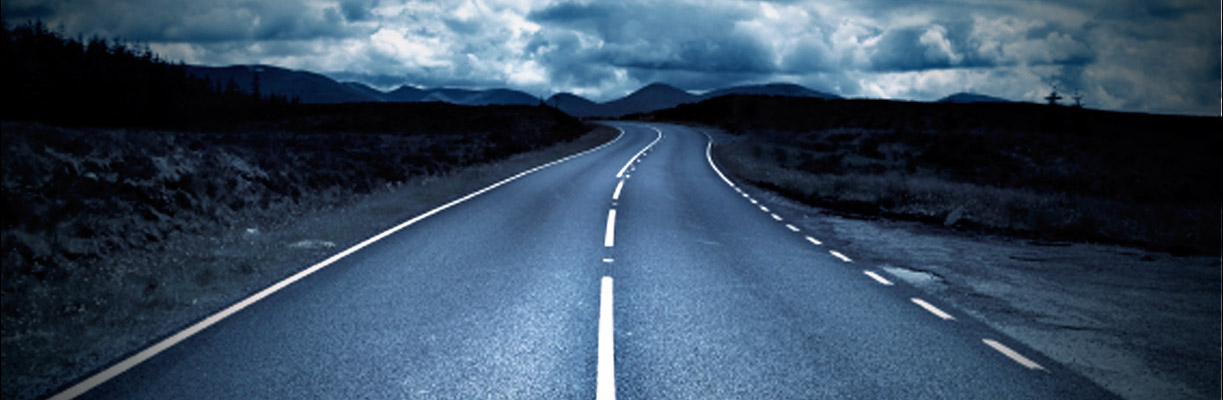
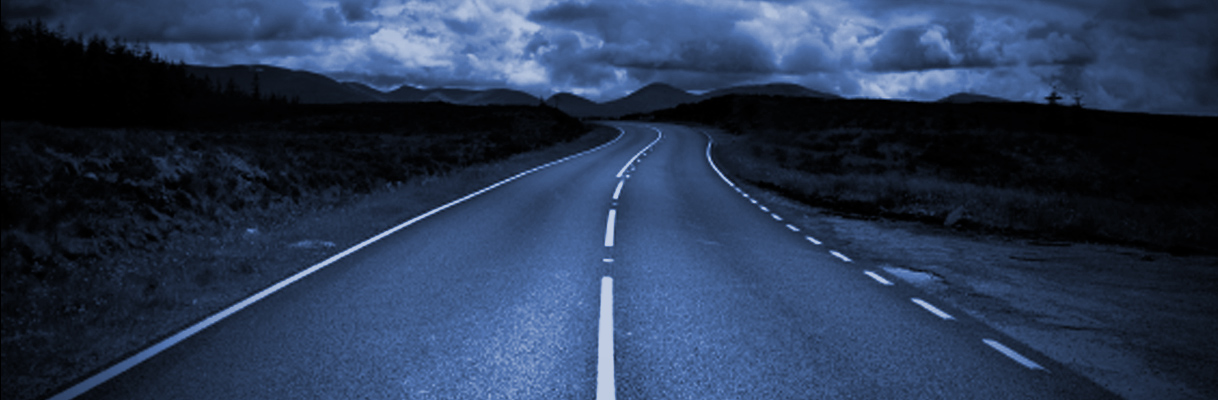
move front bg image

diff --git a/sites/all/themes/mindbridge/stylesheets/screen.css b/sites/all/themes/mindbridge/stylesheets/screen.css
@@ -1,1 +1,1 @@
-*{margin:0;padding:0}a img{border:0}input,select,textarea,button{font-family:inherit}body{font-family:"open-sans",sans-serif;-webkit-font-smoothing:antialiased;-moz-osx-font-smoothing:grayscale;color:#7e7e7e}body p{padding-bottom:10px;line-height:1.7em}.layout,.not-front #block-system-main>.content,#footer-second,#block-menu-menu-footer-menu .content,#block-block-1 .content,#block-views-news-block-1 .view-content,.views-news .view-content,#block-views-news-block-2 .view-content,#block-views-news-block-2 h2,#block-views-services-page-block .view-content{max-width:940px;margin:0 auto}.partition,#block-views-news-block-2 .views-row,#block-views-services-page-block .view-grouping{border-bottom:1px solid #ccc;padding-bottom:40px;margin-bottom:50px}.clear{clear:both}div.messages{position:relative !important;top:auto !important}h1,h2{text-transform:lowercase}h1{font-size:2.8em}h2{font-size:2.3em}h1,h2,h3,h4,.title{font-family:'GFS Didot', serif;color:black;font-weight:normal}.title{text-transform:inherit}h3{margin-top:30px;font-size:1.3em}a{text-decoration:none;color:#274067}a:hover{text-decoration:none}.hide-button,#block-block-2,.slick-arrow,.slick-dots li button,#block-search-form .form-submit,#block-block-2 .form-submit{font-size:0px;color:transparent;border:0px}.menu li{float:left;margin:0px;padding-top:0px}.menu a{padding:0.9em 0.5em;color:black}.menu li.leaf{list-style:none}#navigation{box-shadow:1px 1px 10px rgba(0,0,0,0.3);position:relative;z-index:2;position:fixed;width:100%;background:rgba(236,236,235,0.9)}#navigation .region-navigation{float:right;text-align:right;position:relative;margin-top:8px}#navigation #block-system-main-menu{float:left}#navigation>div{padding:15px 20px 10px}.backbg{background-size:cover;height:720px;padding:50px 0px;box-shadow:1000px 1000px 0px rgba(0,0,0,0.3) inset;background-position:center}.logoIcon,#node-3 h2:after,.not-front #page-title:after,#block-webform-client-block-10 h2:after{content:url(../images/logo-icon.png);display:block;padding-top:30px}.heading,#node-3 h2,.not-front #page-title,#block-block-1 h2,#block-webform-client-block-10 h2{max-width:400px;margin:0 auto;margin-bottom:30px}.grey-region,#block-block-1,#block-views-news-block-2,#block-views-services-page-block{background-color:#f2f2f2;padding:70px 10px}#node-3,.not-front #block-system-main>.content{text-align:center;padding:60px 10px;padding-top:0px;max-width:700px;margin:0 auto;position:relative}.not-front #block-system-main{margin-top:0px}.not-front #block-system-main:before{height:500px;top:-245px}.not-front #block-system-main>.content{padding-top:0px;padding-bottom:60px}#node-3>h2{display:none}.arc,#block-menu-menu-footer-menu:before,#content:before{background-size:cover;background-position:center;display:block;height:563px;width:100%;position:absolute;top:-90px}#block-system-main{position:relative}.front #block-system-main .node-readmore{display:none}#footer{background:#274067;box-shadow:10px 10px 50px #000;position:relative}#footer .menu{text-align:center;position:relative;top:-130px}#footer .menu:before{content:url(../images/logo-icon.png);display:block;padding-bottom:40px}#footer .menu li{float:none;display:inline-block;margin-left:-15px}#footer .menu li:before{content:"";display:inline-block;width:3px;height:3px;border-radius:20px;background:#274067;vertical-align:middle;margin:0px 10px}#footer .menu li:first-child:before{display:none}#footer-second{position:relative;clear:left;font-size:12px;padding:0px 10px}#footer-second #copyright{float:left}#footer-second #site-by-cci{float:right}#footer-second #site-by-cci a{color:#7e7e7e}#block-menu-menu-footer-menu{position:relative}#block-menu-menu-footer-menu:before{content:"";background-image:url(../images/arc-footer-bg.png);background-position:top;height:330px;top:-214px}#block-menu-menu-footer-menu .content{margin-bottom:-50px;position:relative;border-top:1px solid #cccccc}.page-node-9 #header{background:url(../images/contact-bg.jpg) no-repeat;background-size:cover}#header{margin-bottom:-120px}.front .backbg{padding:50px 0px}.relative-pos,.not-front #page-title,.tabs{position:relative;z-index:1}.not-front #header{height:550px;background:url(../images/contact-bg.jpg) no-repeat;background-size:cover}.not-front #page-title{text-align:center;text-transform:lowercase}div.messages{position:absolute;z-index:1;top:20px;width:100%}#content{position:relative}#content>div>div{position:relative}#content:before{content:"";background-image:url(../images/arc-bg.png)}#block-block-1{text-align:center}#mobile-menu-icon{display:none;position:absolute;height:20px;width:115px;right:20px;top:30px}#mobile-menu-icon a{color:black;display:block;padding-left:70px;line-height:1em}#terms-of-use,#privacy-policy{display:none}#block-block-2{height:30px;width:30px;padding-top:2px}#block-block-2 .content a{height:30px;width:30px;display:block;background:url(../images/search-icon.png) no-repeat}#block-block-2.hide{display:none}.view-banner h1{font-size:2.2em;max-width:500px;margin:0 auto;margin-top:30px;color:white;text-transform:inherit}.view-banner .views-row{position:relative}.view-banner .views-field-body{position:absolute;top:45%;left:50%;text-align:center;transform:translateX(-50%) translateY(-50%);-webkit-transform:translateX(-50%) translateY(-50%);-ms-transform:translateX(-50%) translateY(-50%);-moz-transform:translateX(-50%) translateY(-50%)}.view-banner .views-field-body img{margin:0 auto}.slick-arrow{width:20px;height:30px;cursor:pointer;position:absolute;top:40%;z-index:1}.slick-prev{left:40px;background:url(../images/left-arrow.png) no-repeat}.slick-next{right:40px;background:url(../images/right-arrow.png) no-repeat}.slick-dots{display:block;position:absolute;bottom:230px;width:100%;text-align:center}.slick-dots li{display:inline-block;padding-right:10px}.slick-dots li button{background:white;width:15px;height:15px;border-radius:20px;cursor:pointer}.slick-dots .slick-active button{background:#274067}.view-services{background:url(../images/service-bg.jpg) no-repeat;background-size:cover;text-align:center;position:relative;background-position:center}.view-services a{color:white}.view-services a span{display:block}.view-services .subtitle{width:211px;font-size:0.9em}.view-services .title{text-shadow:1px 1px 1px rgba(0,0,0,0.5);font-size:2em;color:white}.view-services .view-content{padding:90px 0px}.not-front .view-services .view-content{padding:90px 0px 300px 0px}.view-services .views-row{display:inline-block;vertical-align:middle;max-width:300px;padding:20px}.view-services .serv-icon{display:inline-block;height:100px}.view-services .serv-icon img{padding-bottom:20px}#block-views-news-block-1,.views-news{text-align:center;padding:65px 0px 280px;background:#274067;background-size:cover;background-position:center}#block-views-news-block-1 h2,.views-news h2{color:white;padding-bottom:65px}#block-views-news-block-1 .view-content,.views-news .view-content{max-width:990px}#block-views-news-block-1 .view-content .title a,.views-news .view-content .title a{color:black;font-size:1.3em}#block-views-news-block-1 .view-content a,.views-news .view-content a{color:#7e7e7e}#block-views-news-block-1 .view-content a:hover,.views-news .view-content a:hover{text-decoration:underline}#block-views-news-block-1 .date-posted,.views-news .date-posted{padding:20px 0px 20px 12px}#block-views-news-block-1 .date-posted:after,.views-news .date-posted:after{content:url(../images/ellipse.png);position:absolute;top:-8px;left:-34px}#block-views-news-block-1 .date-posted span,.views-news .date-posted span{display:block;color:white;position:relative;z-index:1;line-height:1.1em}#block-views-news-block-1 .date-posted .date,.views-news .date-posted .date{font-size:1.5em;font-weight:bold}#block-views-news-block-1 .right-block,.views-news .right-block{padding:20px 40px 10px 45px;min-width:320px;text-align:left}#block-views-news-block-1 .views-field,.views-news .views-field{float:left;position:relative;z-index:1}#block-views-news-block-1 .views-field p,.views-news .views-field p{padding-bottom:0px}#block-views-news-block-1 .views-field-created,.views-news .views-field-created{padding:30px 0px;background-color:#274067;color:white}#block-views-news-block-1 .views-row,.views-news .views-row{border:2px solid white;background-color:white;max-width:450px;overflow:hidden;margin-right:30px;margin-bottom:15px;display:inline-block}#block-views-news-block-2 .views-more-link{display:block}#block-views-news-block-2 .views-field{padding:10px 0px}#block-views-news-block-2 .views-field-title{font-size:1.3em}#block-views-news-block-2 h2{padding-bottom:30px;text-transform:inherit}#block-views-news-block-2 .views-row:last-child{margin-bottom:0px;padding-bottom:0px;border-bottom:0px}#block-views-services-page-block .view-grouping:last-child{margin-bottom:0px;border-bottom:0px}#block-views-services-page-block .views-row{padding:0px 10px 20px 0px;display:inline-block;width:48%;vertical-align:top}#block-views-services-page-block .view-grouping-header{font-size:2.3em;padding-bottom:25px;color:black;font-family:'GFS Didot', serif}#block-views-services-page-block img.serv-icon{vertical-align:middle}#block-views-services-page-block .view-grouping-content h3{font-family:"open-sans",sans-serif;font-size:0.9em;color:#7e7e7e;margin-top:0px;margin-bottom:25px}#block-views-services-page-block .views-field-title{font-size:1.1em;color:black;font-family:'GFS Didot', serif}#block-views-services-page-block .views-field-title img{float:left}#block-views-services-page-block .views-field-title .field-content{float:right;width:85%}#block-webform-client-block-10{background-color:#f2f2f2;text-align:center;padding:70px 10px}.webform-client-form{max-width:850px;margin:0 auto}.webform-client-form input,.webform-client-form textarea{font-size:18px;padding:15px 10px;border:1px solid #ccc;border-radius:5px}.webform-client-form .form-actions{text-align:center;position:relative;margin:0 auto;margin-top:15px}.webform-client-form .form-item{position:relative;display:inline-block}.webform-client-form .webform-submit{color:white;background:#274067;text-transform:lowercase;width:250px;margin:0 auto;margin-right:20px;cursor:pointer;-webkit-appearance:none}.webform-client-form .webform-component-textarea{clear:left;width:98%}.webform-client-form .webform-component-textarea+p{display:none}.webform-client-form .webform-component-textarea textarea{width:98%}.webform-client-form ::-webkit-input-placeholder{color:#9b9b9b;font-size:16px}.webform-client-form ::-moz-placeholder{color:#9b9b9b;font-size:16px}.webform-client-form :-ms-input-placeholder{color:#9b9b9b;font-size:16px}.webform-client-form input:-moz-placeholder{color:#9b9b9b;font-size:16px}.webform-client-form input{width:370px;margin-right:20px}#block-search-form,#block-block-2{right:0px;top:0px;float:right}#block-search-form h2,#block-block-2 h2{display:none}#block-search-form .form-text,#block-block-2 .form-text{width:250px;padding:10px;margin-top:24px}#block-search-form .form-submit,#block-block-2 .form-submit{width:30px;height:30px;cursor:pointer;-webkit-appearance:none;background:url(../images/search-icon.png) no-repeat}#block-search-form .contextual-links-wrapper,#block-block-2 .contextual-links-wrapper{display:none !important}#block-search-form .form-type-textfield,#block-block-2 .form-type-textfield{display:none;position:absolute;right:0;top:8px}.expand-textbox #block-search-form .form-type-textfield input,.expand-textbox #block-block-2 .form-type-textfield input{height:30px;border:1px solid #7e7e7e;transition:height 0.5s}#block-search-form{display:none}#block-search-form.active{display:block}@media screen and (max-width: 1020px){.view-services .views-row{margin-right:-10px;padding:0px;vertical-align:top}.view-services .serv-icon{height:65px}.view-services a{display:block}.view-services .subtitle{width:195px}}@media screen and (min-width: 768px){#navigation .region-navigation{display:block !important}}@media screen and (max-width: 767px){h2{font-size:1.8em}#block-block-2{display:none}#block-search-form{display:block}.view-banner .views-field-body{top:40%}.view-banner .views-field-body img{width:300px;height:auto}#header{margin-bottom:-35px}.backbg{height:600px;padding:0px !important}.not-front #header{height:450px}.slick-dots{bottom:180px}#mobile-menu-icon{background:url(../images/mobile-icon.png) no-repeat;background-position:center;display:block}.slick-prev{left:10px}.slick-next{right:10px}.view-banner h1{max-width:240px;font-size:1.7em}#logo{padding-left:20px;display:block;width:200px;position:relative}#logo img{width:100%}#logo,#mobile-menu-icon{z-index:2}#terms-of-use,#privacy-policy{display:block}#navigation .region-navigation{display:none;float:none;top:0px;position:absolute;width:100%;background:white;padding-top:50px;margin-top:0px}#navigation>div{padding:15px 0px 10px}#navigation #block-search-form,#navigation #block-system-main-menu{float:none}#navigation #block-search-form{width:93%;margin:0 auto;border-top:1px solid #e6e6e6;border-bottom:1px solid #e6e6e6;margin-top:20px}#navigation #block-search-form .form-type-textfield{position:relative;display:block}#navigation #block-search-form .form-item{margin:0px}#navigation #block-search-form .form-text{background:#f3f3f3;padding:10px 10px;border-radius:20px;width:93%;border:0px;margin-top:18px}#navigation #block-search-form .form-submit{position:relative;top:-22px}.view-services .serv-icon{height:auto}.view-services .views-row{padding-bottom:20px}.view-services .serv-icon img{width:65px}.view-services .serv-icon+span{width:60%;padding-left:10px}.view-services a>span{float:left;text-align:left}#block-views-news-block-1 .views-row{margin-right:0px}#block-views-news-block-1 .view-content .title a{font-size:1em}#block-views-news-block-1 .right-block{padding:20px 0px 0px 30px;width:226px;min-width:inherit}#block-system-main-menu{right:0px;background:white;width:100%}#block-system-main-menu .content a{border-bottom:1px solid #e6e6e6;padding:25px 0px;display:block}#block-system-main-menu ul.menu{text-align:center;float:none}#block-system-main-menu li{float:none}#footer ul.menu a{font-size:14px;padding:0px}#footer-second{padding:0px 10px;font-size:11px}#block-views-services-page-block .views-row{width:100%}.node-news a{word-wrap:break-word}.view-services{background:url(../images/service-mobile-bg.jpg) no-repeat;background-position:center;background-size:cover;text-shadow:2px 2px 2px rgba(0,0,0,0.5)}}@media screen and (max-width: 450px){div.messages{width:300px !important}#node-9 .content span{display:block}#content:before{background-image:url(../images/arc-mb-bg.png)}.view-services .title{font-size:1.5em}.webform-client-form input{max-width:300px;margin-right:0px}.webform-client-form .webform-component-textarea{max-width:326px;margin:15px auto}#block-menu-menu-footer-menu::before{background-image:url(../images/arc-footer-mb-bg.png);height:346px;top:-230px}#block-menu-menu-footer-menu .content{margin-bottom:-75px}#footer .menu{max-width:300px;margin:0 auto;top:-153px}}
+*{margin:0;padding:0}a img{border:0}input,select,textarea,button{font-family:inherit}body{font-family:"open-sans",sans-serif;-webkit-font-smoothing:antialiased;-moz-osx-font-smoothing:grayscale;color:#7e7e7e}body p{padding-bottom:10px;line-height:1.7em}.layout,.not-front #block-system-main>.content,#footer-second,#block-menu-menu-footer-menu .content,#block-block-1 .content,#block-views-news-block-1 .view-content,.views-news .view-content,#block-views-news-block-2 .view-content,#block-views-news-block-2 h2,#block-views-services-page-block .view-content{max-width:940px;margin:0 auto}.partition,#block-views-news-block-2 .views-row,#block-views-services-page-block .view-grouping{border-bottom:1px solid #ccc;padding-bottom:40px;margin-bottom:50px}.clear{clear:both}div.messages{position:relative !important;top:auto !important}h1,h2{text-transform:lowercase}h1{font-size:2.8em}h2{font-size:2.3em}h1,h2,h3,h4,.title{font-family:'GFS Didot', serif;color:black;font-weight:normal}.title{text-transform:inherit}h3{margin-top:30px;font-size:1.3em}a{text-decoration:none;color:#274067}a:hover{text-decoration:none}.hide-button,#block-block-2,.slick-arrow,.slick-dots li button,#block-search-form .form-submit,#block-block-2 .form-submit{font-size:0px;color:transparent;border:0px}.menu li{float:left;margin:0px;padding-top:0px}.menu a{padding:0.9em 0.5em;color:black}.menu li.leaf{list-style:none}#navigation{box-shadow:1px 1px 10px rgba(0,0,0,0.3);position:relative;z-index:2;position:fixed;width:100%;background:rgba(236,236,235,0.9)}#navigation .region-navigation{float:right;text-align:right;position:relative;margin-top:8px}#navigation #block-system-main-menu{float:left}#navigation>div{padding:15px 20px 10px}.backbg{background-size:cover;height:720px;padding:50px 0px;background-position:center -16px}.logoIcon,#node-3 h2:after,.not-front #page-title:after,#block-webform-client-block-10 h2:after{content:url(../images/logo-icon.png);display:block;padding-top:30px}.heading,#node-3 h2,.not-front #page-title,#block-block-1 h2,#block-webform-client-block-10 h2{max-width:400px;margin:0 auto;margin-bottom:30px}.grey-region,#block-block-1,#block-views-news-block-2,#block-views-services-page-block{background-color:#f2f2f2;padding:70px 10px}#node-3,.not-front #block-system-main>.content{text-align:center;padding:60px 10px;padding-top:0px;max-width:700px;margin:0 auto;position:relative}.not-front #block-system-main{margin-top:0px}.not-front #block-system-main:before{height:500px;top:-245px}.not-front #block-system-main>.content{padding-top:0px;padding-bottom:60px}#node-3>h2{display:none}.arc,#block-menu-menu-footer-menu:before,#content:before{background-size:cover;background-position:center;display:block;height:563px;width:100%;position:absolute;top:-90px}#block-system-main{position:relative}.front #block-system-main .node-readmore{display:none}#footer{background:#274067;box-shadow:10px 10px 50px #000;position:relative}#footer .menu{text-align:center;position:relative;top:-130px}#footer .menu:before{content:url(../images/logo-icon.png);display:block;padding-bottom:40px}#footer .menu li{float:none;display:inline-block;margin-left:-15px}#footer .menu li:before{content:"";display:inline-block;width:3px;height:3px;border-radius:20px;background:#274067;vertical-align:middle;margin:0px 10px}#footer .menu li:first-child:before{display:none}#footer-second{position:relative;clear:left;font-size:12px;padding:0px 10px}#footer-second #copyright{float:left}#footer-second #site-by-cci{float:right}#footer-second #site-by-cci a{color:#7e7e7e}#block-menu-menu-footer-menu{position:relative}#block-menu-menu-footer-menu:before{content:"";background-image:url(../images/arc-footer-bg.png);background-position:top;height:330px;top:-214px}#block-menu-menu-footer-menu .content{margin-bottom:-50px;position:relative;border-top:1px solid #cccccc}.page-node-9 #header{background:url(../images/contact-bg.jpg) no-repeat;background-size:cover}#header{margin-bottom:-120px}.front .backbg{padding:50px 0px}.relative-pos,.not-front #page-title,.tabs{position:relative;z-index:1}.not-front #header{height:550px;background:url(../images/contact-bg.jpg) no-repeat;background-size:cover}.not-front #page-title{text-align:center;text-transform:lowercase}div.messages{position:absolute;z-index:1;top:20px;width:100%}#content{position:relative}#content>div>div{position:relative}#content:before{content:"";background-image:url(../images/arc-bg.png)}#block-block-1{text-align:center}#mobile-menu-icon{display:none;position:absolute;height:20px;width:115px;right:20px;top:30px}#mobile-menu-icon a{color:black;display:block;padding-left:70px;line-height:1em}#terms-of-use,#privacy-policy{display:none}#block-block-2{height:30px;width:30px;padding-top:2px}#block-block-2 .content a{height:30px;width:30px;display:block;background:url(../images/search-icon.png) no-repeat}#block-block-2.hide{display:none}.view-banner h1{font-size:2.2em;max-width:500px;margin:0 auto;margin-top:30px;color:white;text-transform:inherit}.view-banner .views-row{position:relative}.view-banner .views-field-body{position:absolute;top:45%;left:50%;text-align:center;transform:translateX(-50%) translateY(-50%);-webkit-transform:translateX(-50%) translateY(-50%);-ms-transform:translateX(-50%) translateY(-50%);-moz-transform:translateX(-50%) translateY(-50%)}.view-banner .views-field-body img{margin:0 auto}.slick-arrow{width:20px;height:30px;cursor:pointer;position:absolute;top:40%;z-index:1}.slick-prev{left:40px;background:url(../images/left-arrow.png) no-repeat}.slick-next{right:40px;background:url(../images/right-arrow.png) no-repeat}.slick-dots{display:block;position:absolute;bottom:230px;width:100%;text-align:center}.slick-dots li{display:inline-block;padding-right:10px}.slick-dots li button{background:white;width:15px;height:15px;border-radius:20px;cursor:pointer}.slick-dots .slick-active button{background:#274067}.view-services{background:url(../images/service-bg3.jpg) no-repeat;background-size:cover;text-align:center;position:relative;background-position:center}.view-services a{color:white}.view-services a span{display:block}.view-services .subtitle{width:211px;font-size:0.9em}.view-services .title{text-shadow:1px 1px 1px rgba(0,0,0,0.5);font-size:2em;color:white}.view-services .view-content{padding:90px 0px}.not-front .view-services .view-content{padding:90px 0px 300px 0px}.view-services .views-row{display:inline-block;vertical-align:middle;max-width:300px;padding:20px}.view-services .serv-icon{display:inline-block;height:100px}.view-services .serv-icon img{padding-bottom:20px}#block-views-news-block-1,.views-news{text-align:center;padding:65px 0px 280px;background:#274067;background-size:cover;background-position:center}#block-views-news-block-1 h2,.views-news h2{color:white;padding-bottom:65px}#block-views-news-block-1 .view-content,.views-news .view-content{max-width:990px}#block-views-news-block-1 .view-content .title a,.views-news .view-content .title a{color:black;font-size:1.3em}#block-views-news-block-1 .view-content a,.views-news .view-content a{color:#7e7e7e}#block-views-news-block-1 .view-content a:hover,.views-news .view-content a:hover{text-decoration:underline}#block-views-news-block-1 .date-posted,.views-news .date-posted{padding:20px 0px 20px 12px}#block-views-news-block-1 .date-posted:after,.views-news .date-posted:after{content:url(../images/ellipse.png);position:absolute;top:-8px;left:-34px}#block-views-news-block-1 .date-posted span,.views-news .date-posted span{display:block;color:white;position:relative;z-index:1;line-height:1.1em}#block-views-news-block-1 .date-posted .date,.views-news .date-posted .date{font-size:1.5em;font-weight:bold}#block-views-news-block-1 .right-block,.views-news .right-block{padding:20px 40px 10px 45px;min-width:320px;text-align:left}#block-views-news-block-1 .views-field,.views-news .views-field{float:left;position:relative;z-index:1}#block-views-news-block-1 .views-field p,.views-news .views-field p{padding-bottom:0px}#block-views-news-block-1 .views-field-created,.views-news .views-field-created{padding:30px 0px;background-color:#274067;color:white}#block-views-news-block-1 .views-row,.views-news .views-row{border:2px solid white;background-color:white;max-width:450px;overflow:hidden;margin-right:30px;margin-bottom:15px;display:inline-block}#block-views-news-block-2 .views-more-link{display:block}#block-views-news-block-2 .views-field{padding:10px 0px}#block-views-news-block-2 .views-field-title{font-size:1.3em}#block-views-news-block-2 h2{padding-bottom:30px;text-transform:inherit}#block-views-news-block-2 .views-row:last-child{margin-bottom:0px;padding-bottom:0px;border-bottom:0px}#block-views-services-page-block .view-grouping:last-child{margin-bottom:0px;border-bottom:0px}#block-views-services-page-block .views-row{padding:0px 10px 20px 0px;display:inline-block;width:48%;vertical-align:top}#block-views-services-page-block .view-grouping-header{font-size:2.3em;padding-bottom:25px;color:black;font-family:'GFS Didot', serif}#block-views-services-page-block img.serv-icon{vertical-align:middle}#block-views-services-page-block .view-grouping-content h3{font-family:"open-sans",sans-serif;font-size:0.9em;color:#7e7e7e;margin-top:0px;margin-bottom:25px}#block-views-services-page-block .views-field-title{font-size:1.1em;color:black;font-family:'GFS Didot', serif}#block-views-services-page-block .views-field-title img{float:left}#block-views-services-page-block .views-field-title .field-content{float:right;width:85%}#block-webform-client-block-10{background-color:#f2f2f2;text-align:center;padding:70px 10px}.webform-client-form{max-width:850px;margin:0 auto}.webform-client-form input,.webform-client-form textarea{font-size:18px;padding:15px 10px;border:1px solid #ccc;border-radius:5px}.webform-client-form .form-actions{text-align:center;position:relative;margin:0 auto;margin-top:15px}.webform-client-form .form-item{position:relative;display:inline-block}.webform-client-form .webform-submit{color:white;background:#274067;text-transform:lowercase;width:250px;margin:0 auto;margin-right:20px;cursor:pointer;-webkit-appearance:none}.webform-client-form .webform-component-textarea{clear:left;width:98%}.webform-client-form .webform-component-textarea+p{display:none}.webform-client-form .webform-component-textarea textarea{width:98%}.webform-client-form ::-webkit-input-placeholder{color:#9b9b9b;font-size:16px}.webform-client-form ::-moz-placeholder{color:#9b9b9b;font-size:16px}.webform-client-form :-ms-input-placeholder{color:#9b9b9b;font-size:16px}.webform-client-form input:-moz-placeholder{color:#9b9b9b;font-size:16px}.webform-client-form input{width:370px;margin-right:20px}#block-search-form,#block-block-2{right:0px;top:0px;float:right}#block-search-form h2,#block-block-2 h2{display:none}#block-search-form .form-text,#block-block-2 .form-text{width:250px;padding:10px;margin-top:24px}#block-search-form .form-submit,#block-block-2 .form-submit{width:30px;height:30px;cursor:pointer;-webkit-appearance:none;background:url(../images/search-icon.png) no-repeat}#block-search-form .contextual-links-wrapper,#block-block-2 .contextual-links-wrapper{display:none !important}#block-search-form .form-type-textfield,#block-block-2 .form-type-textfield{display:none;position:absolute;right:0;top:8px}.expand-textbox #block-search-form .form-type-textfield input,.expand-textbox #block-block-2 .form-type-textfield input{height:30px;border:1px solid #7e7e7e;transition:height 0.5s}#block-search-form{display:none}#block-search-form.active{display:block}@media screen and (max-width: 1020px){.view-services .views-row{margin-right:-10px;padding:0px;vertical-align:top}.view-services .serv-icon{height:65px}.view-services a{display:block}.view-services .subtitle{width:195px}}@media screen and (min-width: 768px){#navigation .region-navigation{display:block !important}}@media screen and (max-width: 767px){h2{font-size:1.8em}#block-block-2{display:none}#block-search-form{display:block}.view-banner .views-field-body{top:40%}.view-banner .views-field-body img{width:300px;height:auto}#header{margin-bottom:-35px}.backbg{height:600px;padding:0px !important}.not-front #header{height:450px}.slick-dots{bottom:180px}#mobile-menu-icon{background:url(../images/mobile-icon.png) no-repeat;background-position:center;display:block}.slick-prev{left:10px}.slick-next{right:10px}.view-banner h1{max-width:240px;font-size:1.7em}#logo{padding-left:20px;display:block;width:200px;position:relative}#logo img{width:100%}#logo,#mobile-menu-icon{z-index:2}#terms-of-use,#privacy-policy{display:block}#navigation .region-navigation{display:none;float:none;top:0px;position:absolute;width:100%;background:white;padding-top:50px;margin-top:0px}#navigation>div{padding:15px 0px 10px}#navigation #block-search-form,#navigation #block-system-main-menu{float:none}#navigation #block-search-form{width:93%;margin:0 auto;border-top:1px solid #e6e6e6;border-bottom:1px solid #e6e6e6;margin-top:20px}#navigation #block-search-form .form-type-textfield{position:relative;display:block}#navigation #block-search-form .form-item{margin:0px}#navigation #block-search-form .form-text{background:#f3f3f3;padding:10px 10px;border-radius:20px;width:93%;border:0px;margin-top:18px}#navigation #block-search-form .form-submit{position:relative;top:-22px}.view-services .serv-icon{height:auto}.view-services .views-row{padding-bottom:20px}.view-services .serv-icon img{width:65px}.view-services .serv-icon+span{width:60%;padding-left:10px}.view-services a>span{float:left;text-align:left}#block-views-news-block-1 .views-row{margin-right:0px}#block-views-news-block-1 .view-content .title a{font-size:1em}#block-views-news-block-1 .right-block{padding:20px 0px 0px 30px;width:226px;min-width:inherit}#block-system-main-menu{right:0px;background:white;width:100%}#block-system-main-menu .content a{border-bottom:1px solid #e6e6e6;padding:25px 0px;display:block}#block-system-main-menu ul.menu{text-align:center;float:none}#block-system-main-menu li{float:none}#footer ul.menu a{font-size:14px;padding:0px}#footer-second{padding:0px 10px;font-size:11px}#block-views-services-page-block .views-row{width:100%}.node-news a{word-wrap:break-word}.view-services{background:url(../images/service-mobile-bg.jpg) no-repeat;background-position:center;background-size:cover;text-shadow:2px 2px 2px rgba(0,0,0,0.5)}}@media screen and (max-width: 450px){div.messages{width:300px !important}#node-9 .content span{display:block}#content:before{background-image:url(../images/arc-mb-bg.png)}.view-services .title{font-size:1.5em}.webform-client-form input{max-width:300px;margin-right:0px}.webform-client-form .webform-component-textarea{max-width:326px;margin:15px auto}#block-menu-menu-footer-menu::before{background-image:url(../images/arc-footer-mb-bg.png);height:346px;top:-230px}#block-menu-menu-footer-menu .content{margin-bottom:-75px}#footer .menu{max-width:300px;margin:0 auto;top:-153px}}

diff --git a/sites/all/themes/mindbridge/sass/_main.scss b/sites/all/themes/mindbridge/sass/_main.scss
@@ -139,8 +139,7 @@ a
 	background-size: cover;
 	height: 720px;
 	padding: 50px 0px;
-	box-shadow: 1000px 1000px 0px rgba(0,0,0,0.3) inset;
-	background-position: center;
+	background-position: center -16px;
 }
 
 .logoIcon{

diff --git a/sites/all/themes/mindbridge/sass/_views.scss b/sites/all/themes/mindbridge/sass/_views.scss
@@ -82,7 +82,7 @@
 
 .view-services{
 
-	background: url(../images/service-bg.jpg) no-repeat;
+	background: url(../images/service-bg3.jpg) no-repeat;
 	background-size: cover;
 	text-align: center;
 	position: relative;
